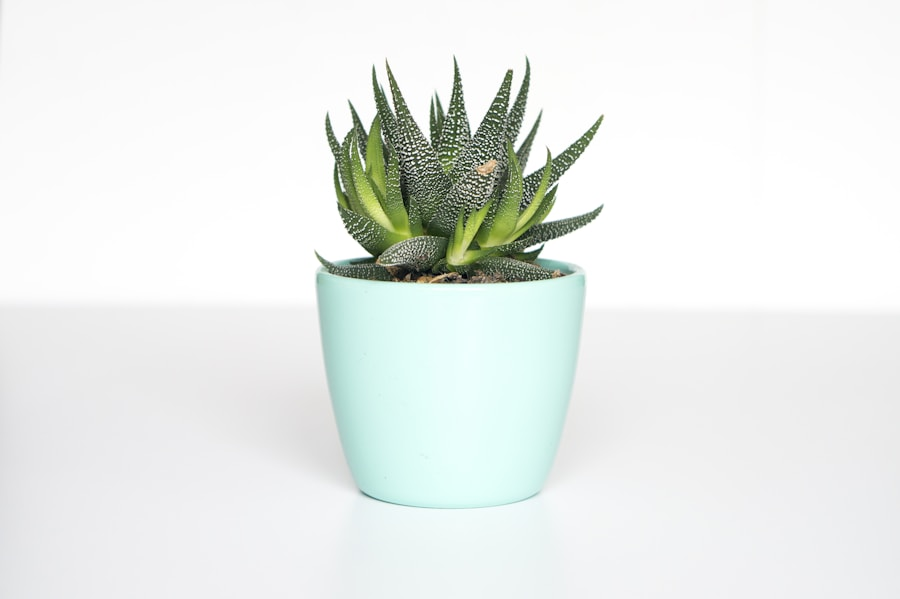
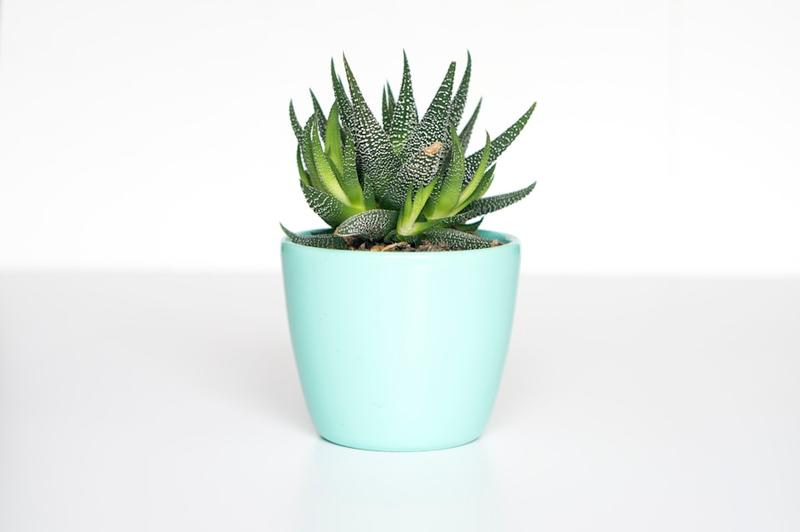
feat: 完成 A 类三项任务（诊断转养护、补充测试、图片优化）
1. 诊断结果页新增'根据诊断创建养护任务'按钮，task-form 支持 type 和 note 参数预填；2. 新增 9 个前端测试覆盖任务重复规则、级联删除、Store 增改、识别历史更新；3. 演示图片压缩（366KB→190KB），复核素材许可（CC BY-SA 3.0/Unsplash/ISC）

diff --git a/tests/store.test.ts b/tests/store.test.ts
@@ -1,5 +1,5 @@
 import { AppState, reducer } from '../src/store'
-import { CareTask } from '../src/types'
+import { CareTask, GardenPlant, IdentifyHistory } from '../src/types'
 
 jest.mock('@tarojs/taro', () => ({
   __esModule: true,
@@ -21,8 +21,19 @@ const task: CareTask = {
   createdAt: '2026-08-01T08:00:00.000Z'
 }
 
+const plant: GardenPlant = {
+  id: 'plant-1',
+  name: '龟背竹',
+  nickname: '小龟',
+  imageUrl: '',
+  location: '客厅',
+  acquiredAt: '2026-07-01',
+  note: '',
+  createdAt: '2026-08-01T08:00:00.000Z'
+}
+
 const state: AppState = {
-  gardenPlants: [],
+  gardenPlants: [plant],
   careRecords: [],
   careTasks: [task],
   identifyHistory: [],
@@ -44,5 +55,106 @@ describe('care task snoozing', () => {
     }
 
     expect(reducer(completedState, { type: 'SNOOZE_TASK', id: task.id, days: 7 })).toBe(completedState)
+  })
+})
+
+describe('care task repeat rules', () => {
+  const baseTask = (repeat: CareTask['repeat']): CareTask => ({ ...task, repeat })
+
+  it('creates the next occurrence when finishing a daily task', () => {
+    const dailyState = { ...state, careTasks: [baseTask('daily')] }
+    const next = reducer(dailyState, { type: 'FINISH_TASK', id: task.id, status: 'done' })
+
+    expect(next.careTasks).toHaveLength(2)
+    expect(next.careTasks[0].status).toBe('done')
+    expect(next.careTasks[1].status).toBe('pending')
+    expect(next.careTasks[1].dueAt).toBe('2026-08-04T08:00:00.000Z')
+  })
+
+  it('creates the next occurrence when finishing a weekly task', () => {
+    const weeklyState = { ...state, careTasks: [baseTask('weekly')] }
+    const next = reducer(weeklyState, { type: 'FINISH_TASK', id: task.id, status: 'done' })
+
+    expect(next.careTasks[1].dueAt).toBe('2026-08-10T08:00:00.000Z')
+  })
+
+  it('creates the next occurrence when finishing a monthly task', () => {
+    const monthlyState = { ...state, careTasks: [baseTask('monthly')] }
+    const next = reducer(monthlyState, { type: 'FINISH_TASK', id: task.id, status: 'done' })
+
+    expect(next.careTasks[1].dueAt).toBe('2026-09-03T08:00:00.000Z')
+  })
+
+  it('does not create a next occurrence when finishing a non-repeating task', () => {
+    const next = reducer(state, { type: 'FINISH_TASK', id: task.id, status: 'done' })
+
+    expect(next.careTasks).toHaveLength(1)
+    expect(next.careTasks[0].status).toBe('done')
+  })
+
+  it('writes a care record only when the task is marked done', () => {
+    const next = reducer(state, { type: 'FINISH_TASK', id: task.id, status: 'skipped' })
+
+    expect(next.careRecords).toHaveLength(0)
+  })
+})
+
+describe('cascade deletion', () => {
+  it('removes the plant together with its care records and tasks', () => {
+    const fullState: AppState = {
+      ...state,
+      careRecords: [
+        { id: 'record-1', plantId: 'plant-1', type: 'water', note: '', createdAt: '2026-08-02T08:00:00.000Z' },
+        { id: 'record-2', plantId: 'plant-2', type: 'fertilize', note: '', createdAt: '2026-08-02T09:00:00.000Z' }
+      ],
+      careTasks: [
+        task,
+        { ...task, id: 'task-2', plantId: 'plant-2' }
+      ]
+    }
+
+    const next = reducer(fullState, { type: 'REMOVE_PLANT', id: 'plant-1' })
+
+    expect(next.gardenPlants).toHaveLength(0)
+    expect(next.careRecords).toHaveLength(1)
+    expect(next.careRecords[0].id).toBe('record-2')
+    expect(next.careTasks).toHaveLength(1)
+    expect(next.careTasks[0].id).toBe('task-2')
+  })
+})
+
+describe('plant save and update', () => {
+  it('adds a new plant at the head of the list', () => {
+    const newPlant: GardenPlant = { ...plant, id: 'plant-2', name: '橡皮树' }
+    const next = reducer(state, { type: 'SAVE_PLANT', plant: newPlant })
+
+    expect(next.gardenPlants).toHaveLength(2)
+    expect(next.gardenPlants[0].id).toBe('plant-2')
+  })
+
+  it('updates an existing plant in place', () => {
+    const updated: GardenPlant = { ...plant, nickname: '大龟' }
+    const next = reducer(state, { type: 'SAVE_PLANT', plant: updated })
+
+    expect(next.gardenPlants).toHaveLength(1)
+    expect(next.gardenPlants[0].nickname).toBe('大龟')
+  })
+})
+
+describe('identify history update', () => {
+  it('updates the result of an existing identify history entry', () => {
+    const entry: IdentifyHistory = {
+      id: 'id-1',
+      imageUrl: '',
+      result: { ...plant, confidence: 0.6 },
+      source: 'mock',
+      createdAt: '2026-08-01T08:00:00.000Z'
+    }
+    const historyState: AppState = { ...state, identifyHistory: [entry] }
+    const newResult = { ...plant, confidence: 0.95, name: '新名称' }
+
+    const next = reducer(historyState, { type: 'UPDATE_IDENTIFY_HISTORY', id: 'id-1', result: newResult })
+
+    expect(next.identifyHistory[0].result.name).toBe('新名称')
   })
 })

diff --git a/src/pages/diagnose/index.tsx b/src/pages/diagnose/index.tsx
@@ -103,6 +103,17 @@ const Diagnose: React.FC = () => {
           <View className='action-plan'><Text className='diagnosis-block__title'>现在可以这样处理</Text>{result.actions.map((item, index) => <View key={item} className='action-step'><Text>{index + 1}</Text><Text>{item}</Text></View>)}</View>
           <View className='follow-up'><Text>后续观察</Text><Text>{result.followUp}</Text></View>
           <View className='safety-note'><Text>安全提醒</Text><Text>{result.safety}</Text></View>
+
+          <Button
+            className='secondary-button diagnosis-action-button'
+            onClick={() => {
+              const plantId = plantIndex > 0 ? state.gardenPlants[plantIndex - 1]?.id : ''
+              const note = encodeURIComponent(`来自诊断：${result.title}`)
+              Taro.navigateTo({ url: `/pages/task-form/index?plantId=${plantId}&type=observe&note=${note}` })
+            }}
+          >
+            根据诊断创建养护任务
+          </Button>
         </View>
       )}
 

diff --git a/src/pages/diagnose/index.scss b/src/pages/diagnose/index.scss
@@ -29,4 +29,5 @@
 .follow-up text, .safety-note text { display: block; }
 .follow-up text:first-child, .safety-note text:first-child { color: #35423a; font-size: 24px; font-weight: 650; }
 .follow-up text:last-child, .safety-note text:last-child { margin-top: 7px; color: #59645d; font-size: 22px; line-height: 1.65; }
+.diagnosis-action-button { width: 100%; margin-top: 28px; }
 .diagnosis-disclaimer { display: block; margin-top: 32px; color: #878e88; font-size: 20px; line-height: 1.6; text-align: center; }

diff --git a/src/pages/task-form/index.tsx b/src/pages/task-form/index.tsx
@@ -25,6 +25,11 @@ const TaskForm: React.FC = () => {
   useLoad((options) => {
     const index = state.gardenPlants.findIndex((plant) => plant.id === options.plantId)
     if (index >= 0) setPlantIndex(index)
+    if (options.type) {
+      const idx = careTypes.indexOf(options.type as CareType)
+      if (idx >= 0) setTypeIndex(idx)
+    }
+    if (options.note) setNote(decodeURIComponent(options.note))
   })
 
   const save = () => {

diff --git a/docs/MVP_SCOPE.md b/docs/MVP_SCOPE.md
@@ -32,7 +32,7 @@
 | 植物识别 | 图片选择与预览 | 已完成 | 支持拍照/相册、预览、删除和重新选择 |
 | 植物识别 | 结构化识别流程 | 部分完成 | Mock 主结果、来源标识和厂商无关接口可用；默认 Mock 不返回候选列表，真实 AI 接入数量为 0 |
 | 植物诊断 | 图片和文字输入 | 已完成 | 三种输入组合均可提交 |
-| 植物诊断 | 结构化诊断流程 | 部分完成 | Mock 主流程、来源标识和厂商无关接口可用；尚不能从诊断结果直接创建养护提醒，真实 AI 接入数量为 0 |
+| 植物诊断 | 结构化诊断流程 | 部分完成 | Mock 主流程、来源标识和厂商无关接口可用；诊断结果可一键创建养护任务（预填植物、类型与备注）；真实 AI 接入数量为 0 |
 | 我的花园 | 植物档案 CRUD | 已完成 | 支持识别后加入、手动新建、编辑和级联删除 |
 | 我的花园 | 养护记录 | 已完成 | 六类记录、时间线和删除 |
 | 我的花园 | 养护任务 | 已完成 | 支持创建、重复、完成、跳过、延后（1/3/7天）和删除 |
@@ -97,9 +97,9 @@
 ### 质量完善
 
 - 完成真实设备上的完整主流程和权限拒绝测试。
-- 现有自动化覆盖 8 个前端测试和 9 个后端测试，包括任务延后、后端路由、图片校验、限流、安全配置和 Mock 标识；继续补充 Store、任务重复规则和级联删除测试。
-- 继续增加图片压缩、存储失败、重复点击、权限拒绝和数据升级处理。
-- 优化演示图片体积并复核素材许可。
+- 现有自动化覆盖 17 个前端测试和 9 个后端测试，包括任务延后、任务重复规则、级联删除、Store 增改、后端路由、图片校验、限流、安全配置和 Mock 标识。
+- 已增加图片压缩容错、存储失败处理、重复点击防护、权限拒绝引导和数据升级处理。
+- 已优化演示图片体积（总体积从约 366KB 降至约 190KB）并复核素材许可（CC BY-SA 3.0 / Unsplash / ISC，见 src/assets/ATTRIBUTION.md）。
 
 ## 6. 发布验收
 
